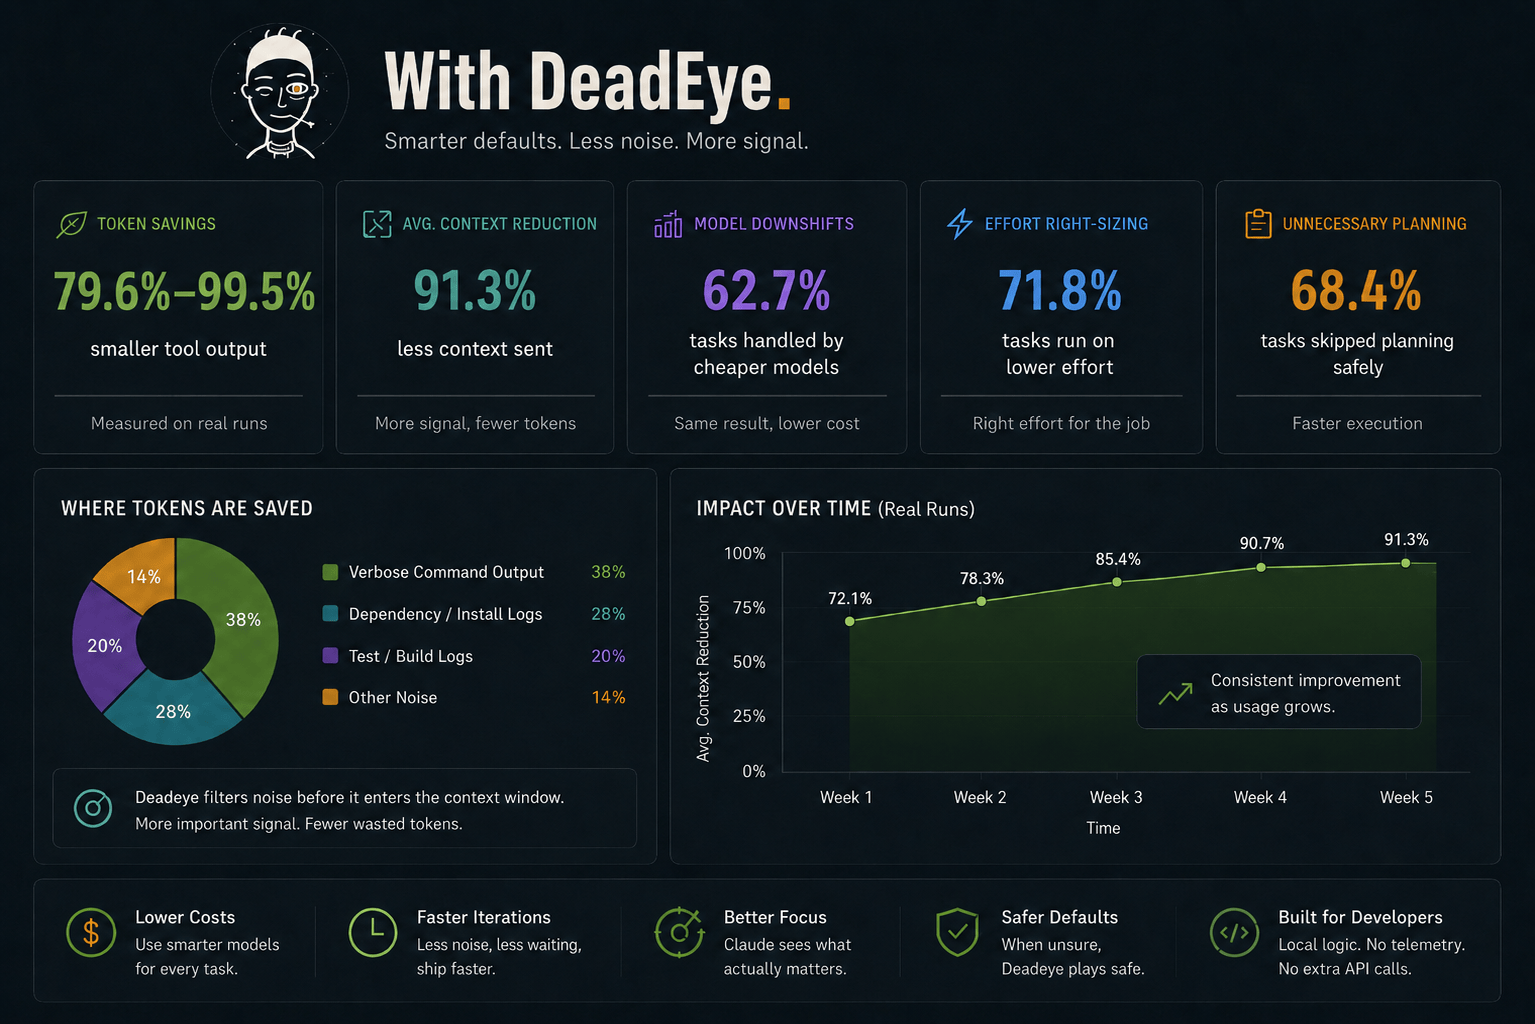
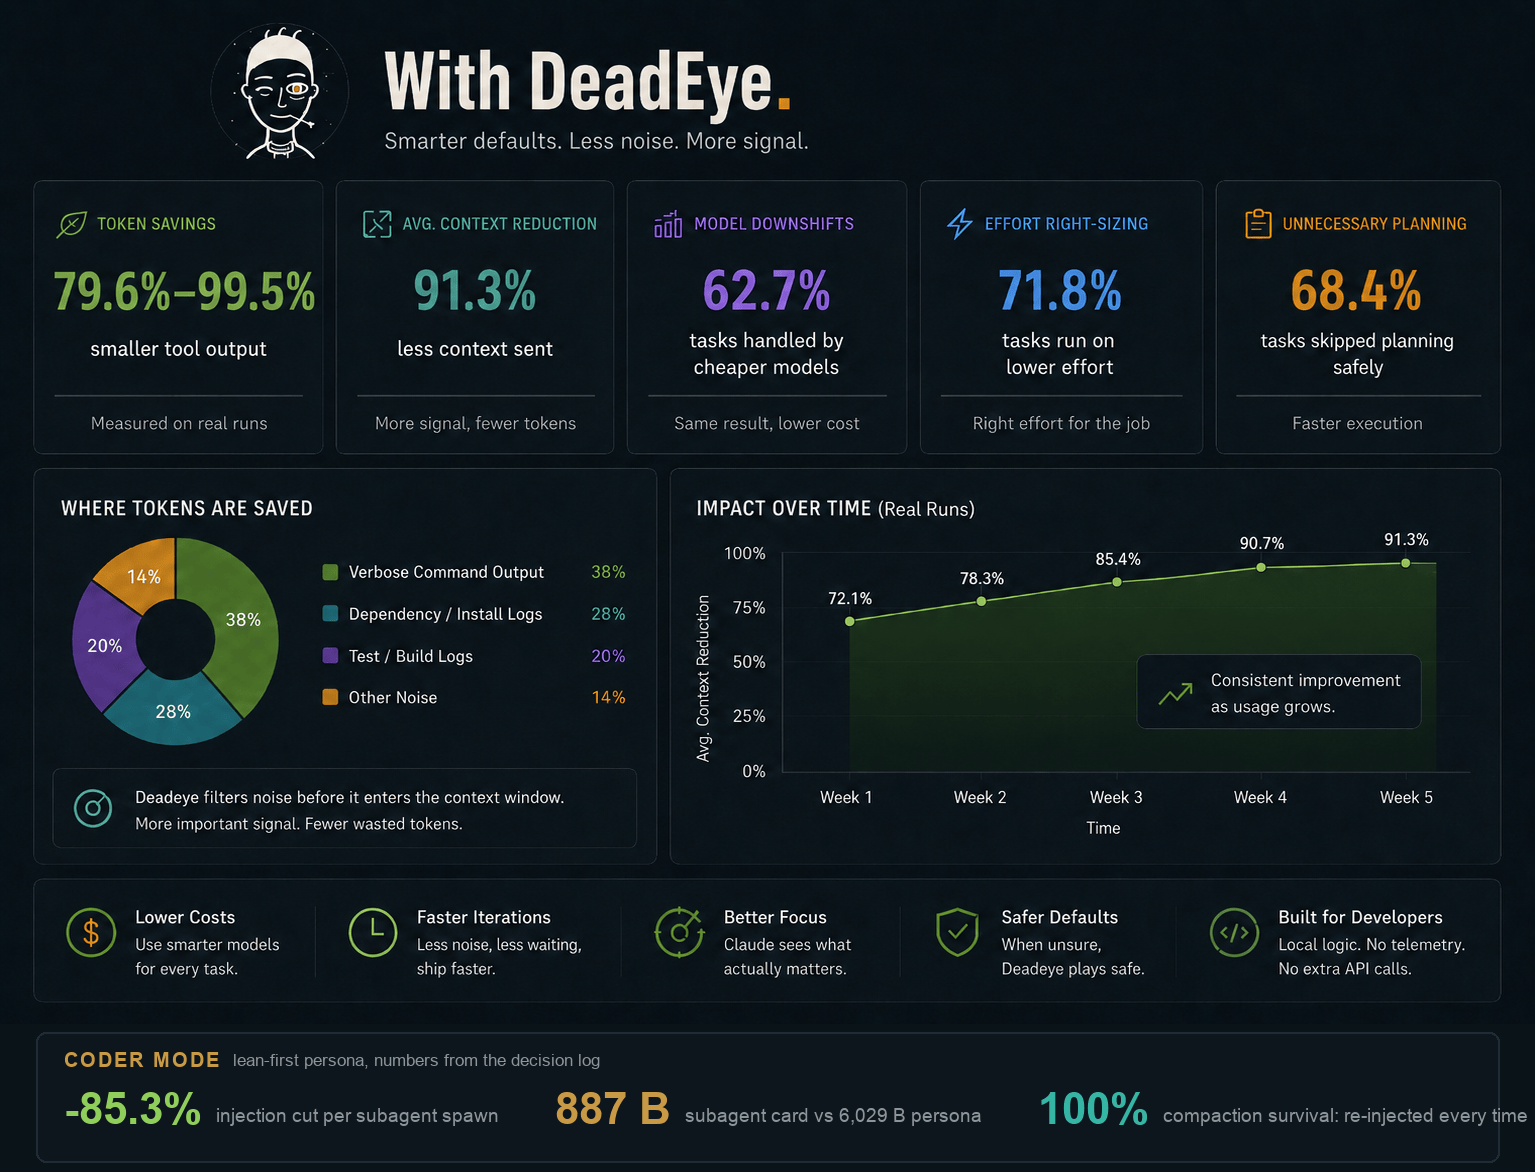
Coder-mode band composited into the stats card; image moves to Before/after
The coder stats live inside the image now -- same card language (brass
title, matching borders and type), only log-derived numbers (-85.3% per
spawn, 887 B card vs 6,029 B persona, compaction survival). Placed in
the Before/after section at 680px per feedback that the top placement
ran too large; the redundant text strip is gone.

diff --git a/README.md b/README.md
@@ -23,13 +23,6 @@
   <img src="https://img.shields.io/badge/measured%20reduction-79.6%25%20to%2099.5%25-111111?style=flat-square" alt="79.6% to 99.5% measured reduction">
 </p>
 
-<p align="center">
-  <a href="https://deepaksinghcs14.github.io/deadeye-cc/"><img src="assets/stats.png" alt="deadeye stats overview" width="820"></a>
-</p>
-
-<p align="center">
-  <sub><b>Coder mode, measured:</b> 6,029-byte lean-first persona per session, surviving compaction &middot; subagent card 887 bytes vs the full ruleset &mdash; an <b>85.3% cut per spawn</b>, logged per spawn &middot; live counts on your machine: <code>/deadeye-gain</code></sub>
-</p>
 
 He doesn't check twice or spray and pray — he doesn't need to. deadeye is
 a Claude Code plugin that watches what your agent is about to do — spawn a
@@ -40,6 +33,10 @@ tokens than a task actually needs. deadeye catches that before the tokens
 are gone. **[Site →](https://deepaksinghcs14.github.io/deadeye-cc/)**
 
 ## Before / after
+
+<p align="center">
+  <a href="https://deepaksinghcs14.github.io/deadeye-cc/"><img src="assets/stats.png" alt="deadeye stats overview" width="680"></a>
+</p>
 
 You ask your agent to run the test suite before merging, and one test is
 actually broken.
